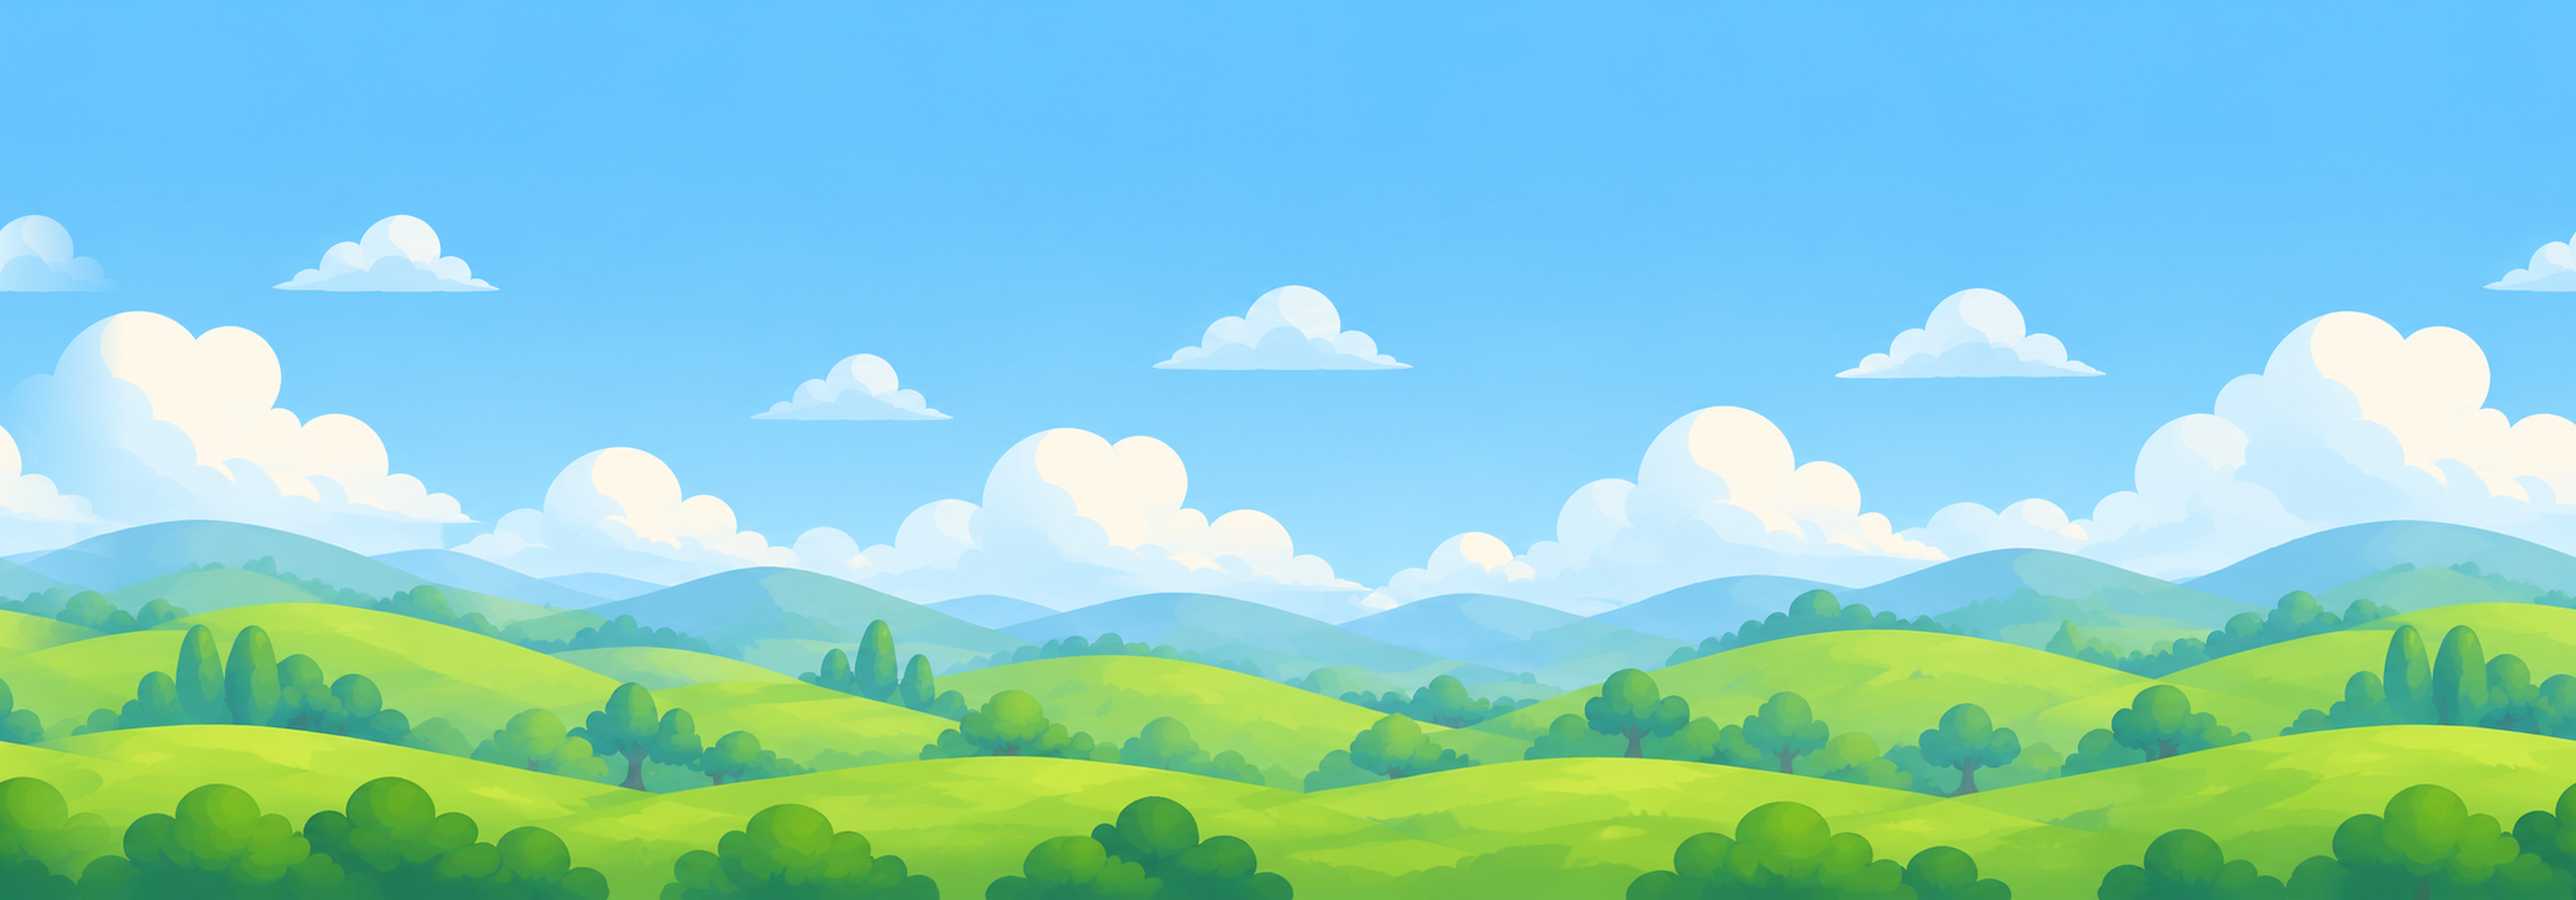
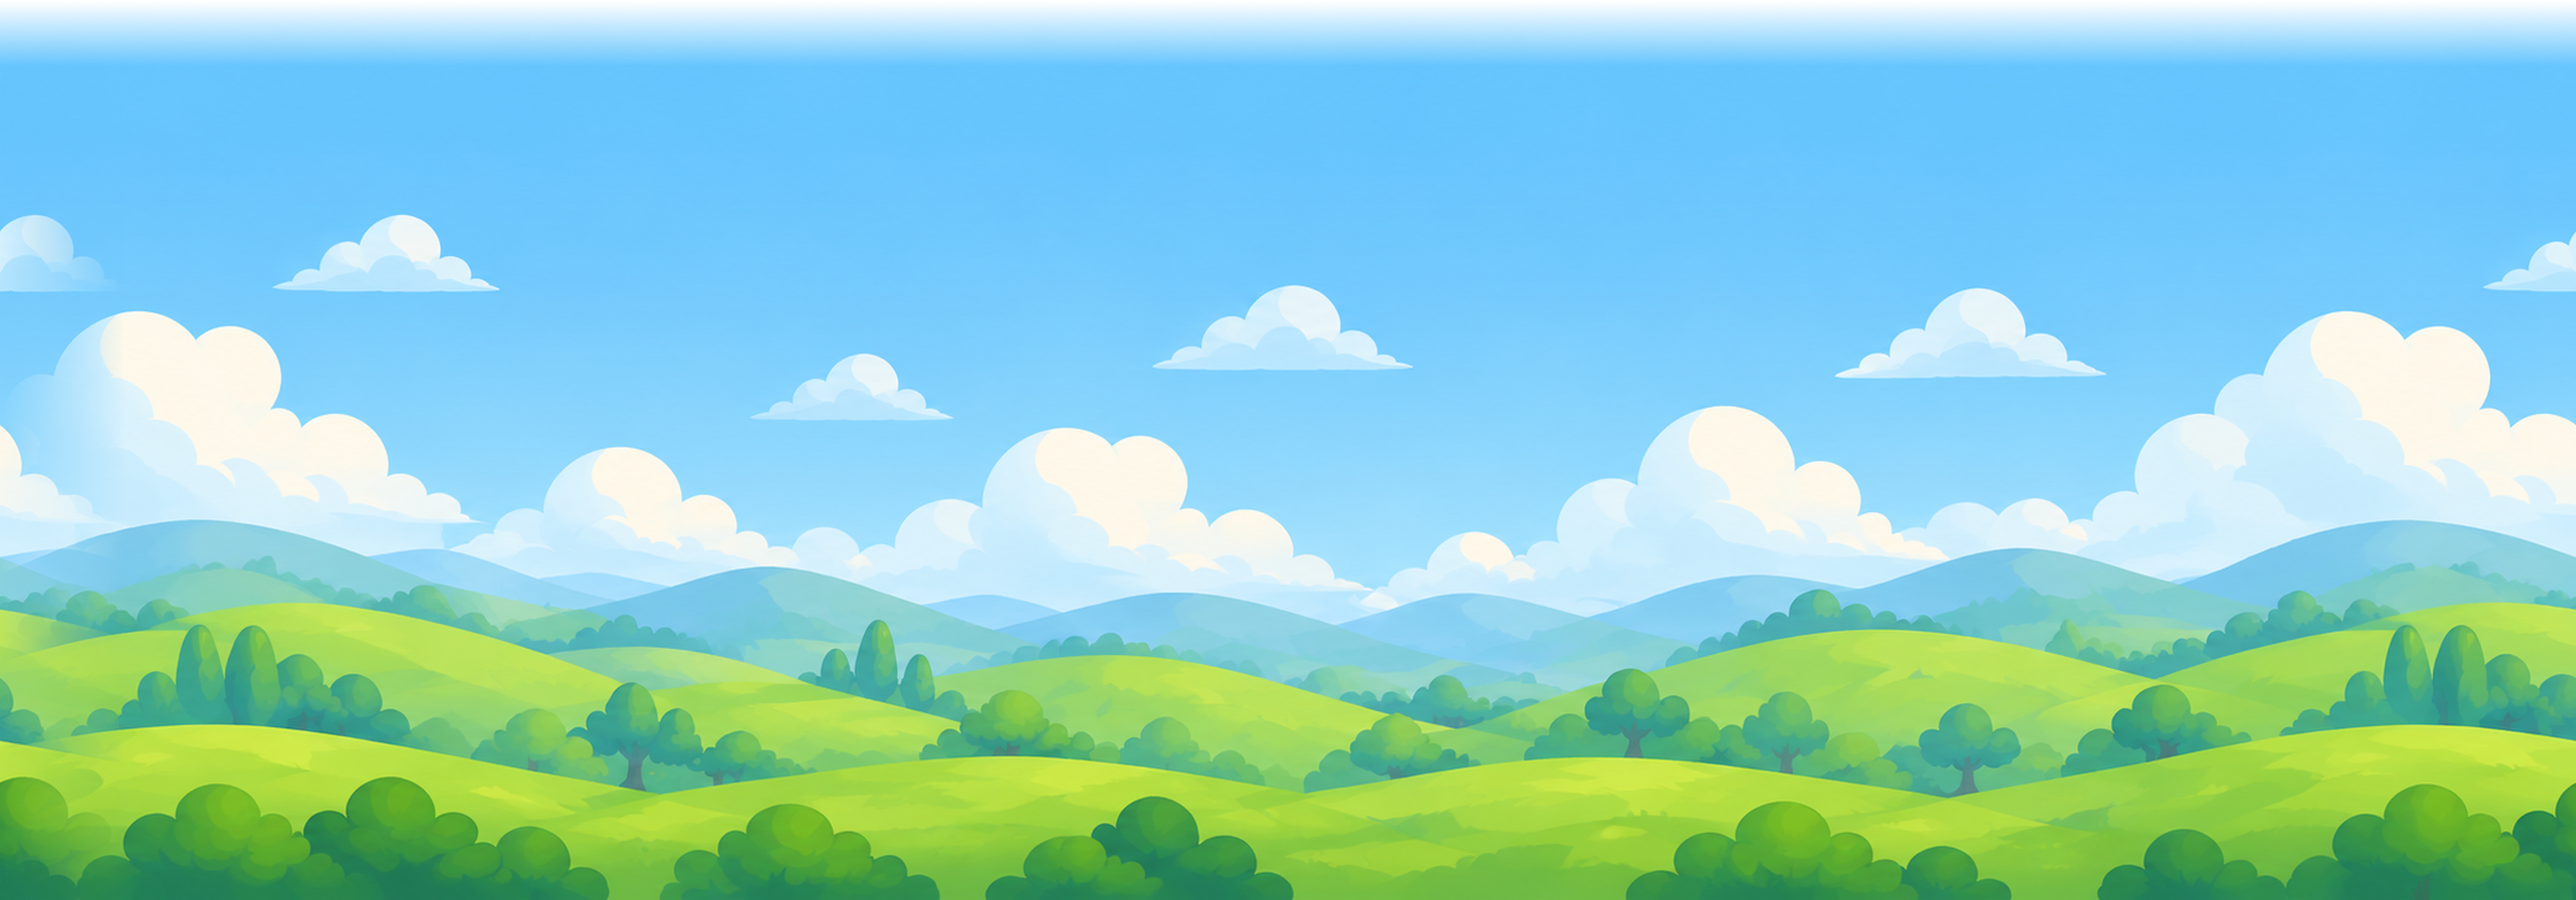
Close M1, start M2: screen-shape fix and save system v1
Background layers now anchor to the screen centre so tablets look
right. SaveManager: versioned local save with unlocks, best results,
safe writes, backup and migration; settings file; tests. plan.md
records M1 closed and the agreed M2 order.

Changed region(s): [[0.0, 0.0, 1.0, 0.0608]]

diff --git a/tools/art_pipeline/make_background.py b/tools/art_pipeline/make_background.py
@@ -52,7 +52,9 @@ def main():
 
     far = load("Pastel Rolling Hills and Cloudy Skies.png", 1.5)
     print("  sky colour:", far[3, far.shape[1] // 2, :3].astype(int))
-    save(crossfade_wrap(far, 150), "bg_far.png")
+    far = crossfade_wrap(far, 150)
+    far[:80, :, 3] *= np.linspace(0.0, 1.0, 80)[:, None]   # top edge fades into the plain sky colour
+    save(far, "bg_far.png")
 
     mid = load("Whimsical Pastel Countryside Panorama.png", 1.0)[260:]
     mid = clean_specks(mid)

diff --git a/plan.md b/plan.md
@@ -61,7 +61,7 @@
 - **Enemies:** World 1 slime; World 2 one new enemy + one new hazard.
 - **Level data:** each level = a scene + a small `LevelData` resource (`data/levels/<id>.tres`: id, world, index, scene path, hint). `data/levels/level_catalog.tres` lists them in order; menus and unlocks read only from it. Regenerate with `tools/make_level_data.gd` after adding a level.
 - **Level building = ground strips, not TileMap (decided 30 Oct 2026):** the World 1 art is a strip kit (left edge, repeating middle, right edge, thin floating piece) with no corners/slopes, so levels are made of resizable ground pieces. Pieces are `GroundBlock`s (`scenes/objects/ground_block.gd`, renamed from GreyboxBlock on 30 Oct 2026): set a size and the meadow art follows: repeating grass top, dirt fill below, grass corners and side outlines only where a side is open (a flush neighbour at the same height or higher hides it; a lower neighbour gets a corner and an outline down to its surface), seeded flowers/tufts on top, and the thin 3-piece art for one-way blocks. Kit built by `tools/art_pipeline/make_ground.py` at in-game size.
-- **Save:** local versioned `user://save.json` (progress, coins, stats) with safe writes and migrations; `user://settings.cfg` for device settings. The save already has `wallet` and `cosmetics` fields so a shop needs no migration later.
+- **Save (built 30 Oct 2026, `autoload/save_manager.gd`):** local versioned `user://save.json`, no server. Per level: `done`, best `stars`, `best_coins`, `yarn` (found ever). Unlock rule: level 1 always open; every other level opens when the one before it is done. Saved automatically on level complete, keeping the best result (never goes down). Safe writes: temp file → swap, previous kept as `.bak` (used if the main file is damaged); `_migrate()` upgrades older versions. `user://settings.cfg` (separate): `music_on`, `sound_on`, `controls_size` (touch buttons read it). `wallet` + `cosmetics` exist but stay empty until a shop is decided (no migration needed then). Note: headless tests that finish a level also write the PC's dev save; the save test uses its own files.
 
 ## 4. Screens and Flow
 ```mermaid
@@ -228,7 +228,7 @@ Decision: build the game first; store upload and Play Games sign-in test move to
 - [x] Play Games project created (Cloud project "wiwiwi"); game ID `254276654194` in both export presets
 - [x] First AAB export (real package ID, real game ID, signed with the upload key)
 - [x] Project folder renamed to `C:\Godot\Projects\wiwiwi`
-- Carried forward (not blocking M1): ElevenLabs commercial rights check · emulator check for 20:9 + tablet shapes (in M1 performance check)
+- Carried forward: ElevenLabs commercial rights check (before audio goes in, M2)
 
 ### M1 — Prototype, greybox (≈ 70 h)
 - [x] Concept art: `.gdignore` on `raw_assets_idea`; asset pipeline (`tools/art_pipeline/`: `cut_cat.py`, `cut_pieces.py`); 20 aligned cat frames → 8 animations (idle, walk, jump, fall, land, hurt, cheer, sleepy) + touch-button art
@@ -247,9 +247,13 @@ Decision: build the game first; store upload and Play Games sign-in test move to
 - [x] Light effects (30 Oct 2026): `scenes/fx/fx.gd` (`Fx.spawn`), cut by grid from the effects sheet with `tools/art_pipeline/make_fx.py`: coin flip + sparkles, milk energy sparkle, checkpoint star burst, landing dust (big falls), heart break when hurt, confetti at the hug; `dev/m1_fx_test.gd` checks they appear and clean themselves up
 - [x] 3 levels (30 Oct 2026): 1-1 "Meadow Morning" (basics, 16 coins), 1-2 "Slime Meadow" (4 slimes, milk at half energy, sideways plank over a pond, floating steps to the yarn; 19 coins), 1-3 "Over the Water" (lift plank up a cliff, long spikes with a floating step above each, 4 ponds, 5 slimes, 2 milk; 21 coins). Every main-path gap ≤ 260 px so a tired cat always gets through. Win card has "Next level" (1-1 → 1-2 → 1-3); catalog via `tools/make_level_data.gd`; `dev/m1_levels_test.gd` checks each level loads/finishes and the plank, lift and spike-step moves
 - [x] Playtest round 1 (30 Oct 2026, owner on the M11): jump button moved 160 px in from the right edge; spikes landed on after the last pond of 1-2 → fair-play rules added and enforced by a test; 1-1 spikes/slime nudged, 1-2 end spikes + 4th slime moved, 1-3 re-laid out with more ground around spikes and the lift (now ~8,200 px)
-- [ ] Playtest and tune (more rounds); performance check (M11 + emulator 20:9/tablet)
+- [x] Screen shapes (30 Oct 2026): checked at 16:9, 20:9 (M11-like) and 4:3/5:4 tablet by windowed runs; fix: background layers are now placed from the screen centre (like the camera) and the far layer's top fades into the sky, so tablets no longer show a line in the sky or a tall dark band. Real-device check on a tablet/emulator still useful in M4 (safe areas, touch)
+- [x] Performance: 58 FPS on the M11 with the background (debug FPS counter)
+- **M1 closed 30 Oct 2026.** Further playtest rounds continue during M2/M3.
 
 ### M2 — Vertical slice (≈ 110 h)
+Order agreed 30 Oct 2026: save system → home page → level map → pause / level complete / try again screens → settings → Android Back button → font. Art: start from the concept screens (Cottage Game Menu, Meadow Level Map, Level Buttons and Stars, Pause Menu, Level Complete, Try Again, Settings Menu); ask the owner for missing pieces (likely: a map background wide enough to scroll, level buttons without baked-in numbers) once cut.
+- [x] SaveManager v1 (30 Oct 2026): progress + unlocks + best results + settings, safe writes, backup, migration; `dev/m2_save_test.gd` (10 checks)
 - [x] Art direction set by the concept art in `assets/raw_assets_idea/` (§5.1)
 - [ ] Fonts chosen to match the concept lettering; Theme resource from the cut UI pieces
 - [ ] Missing art created (§5.1 list); World 1 seamless tiles + layered background
